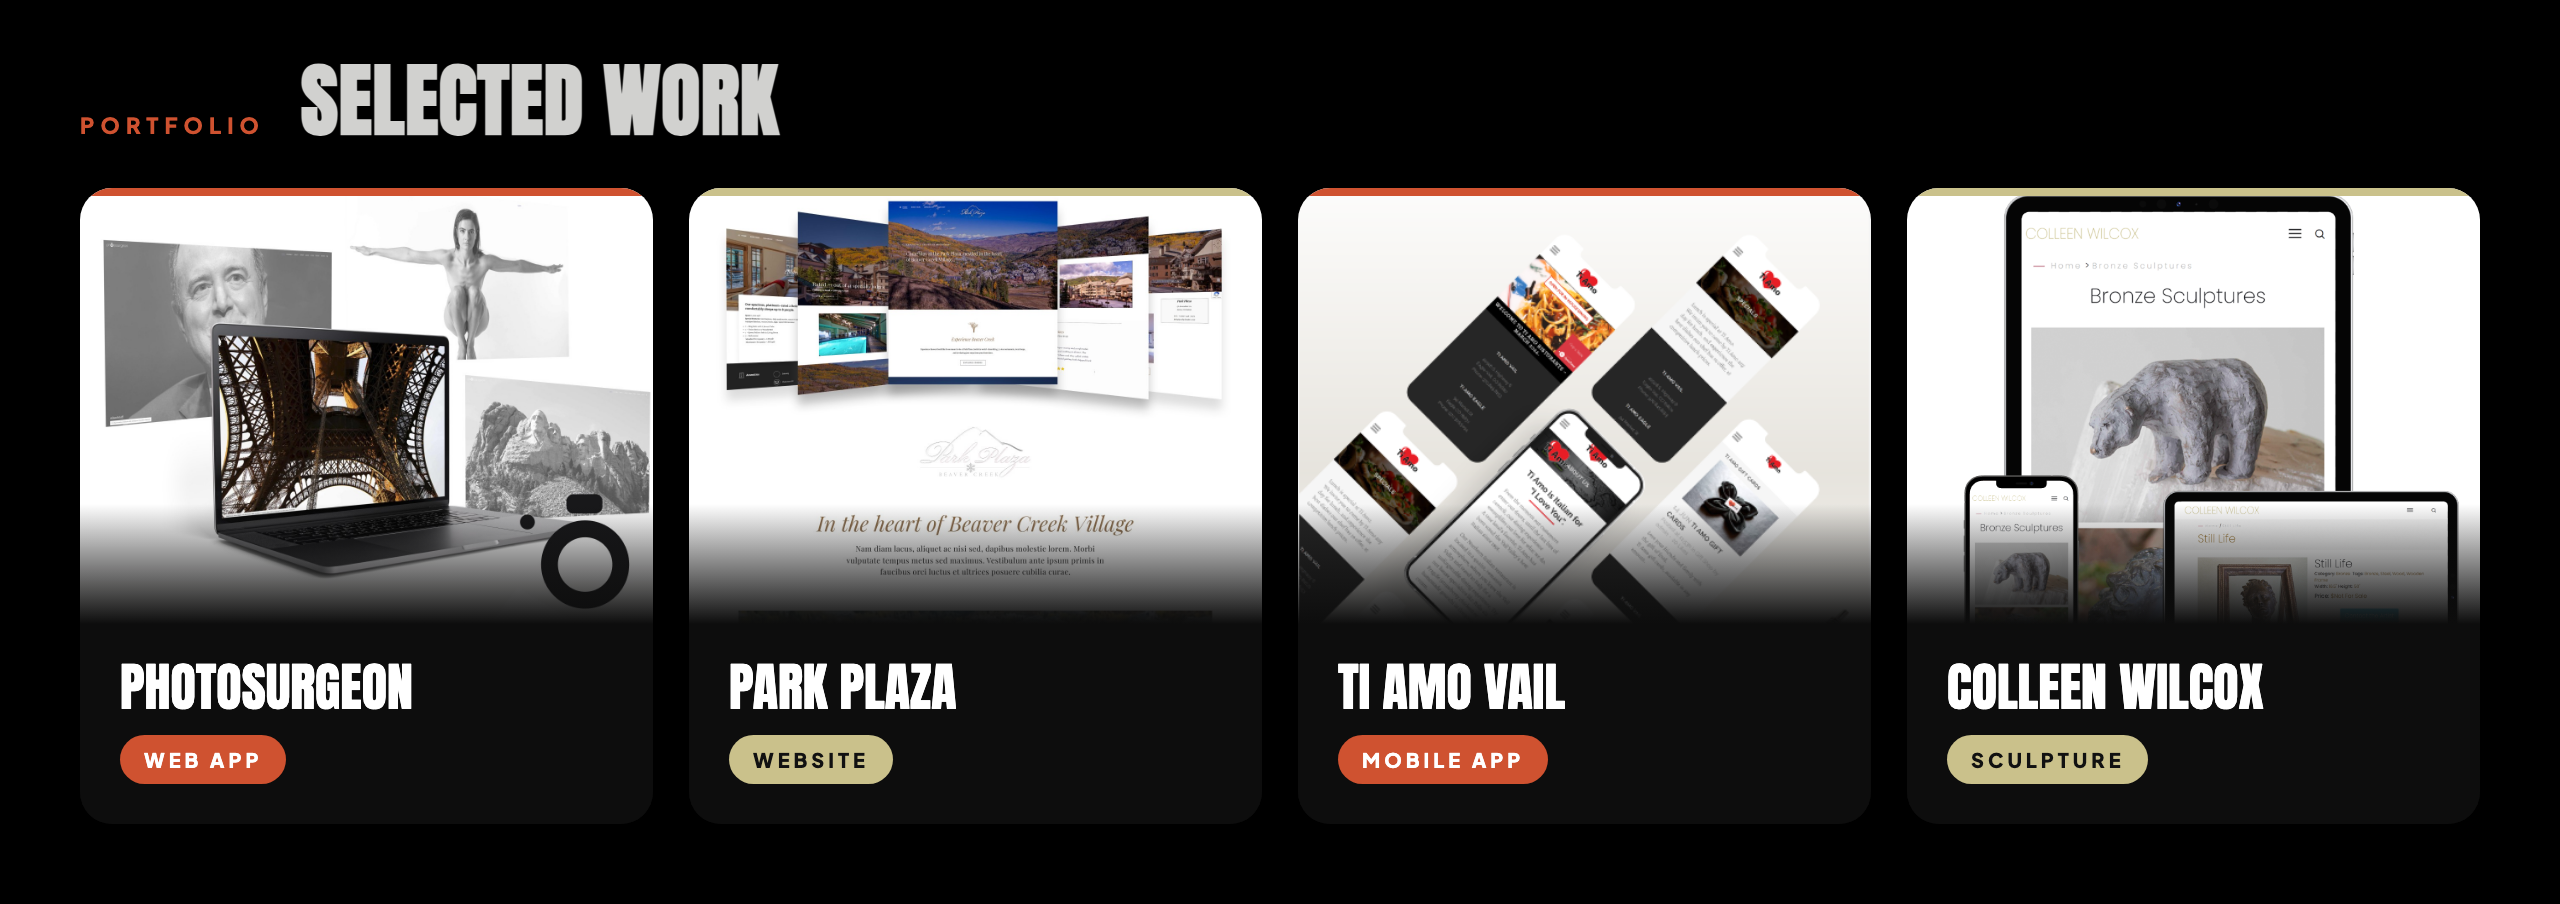
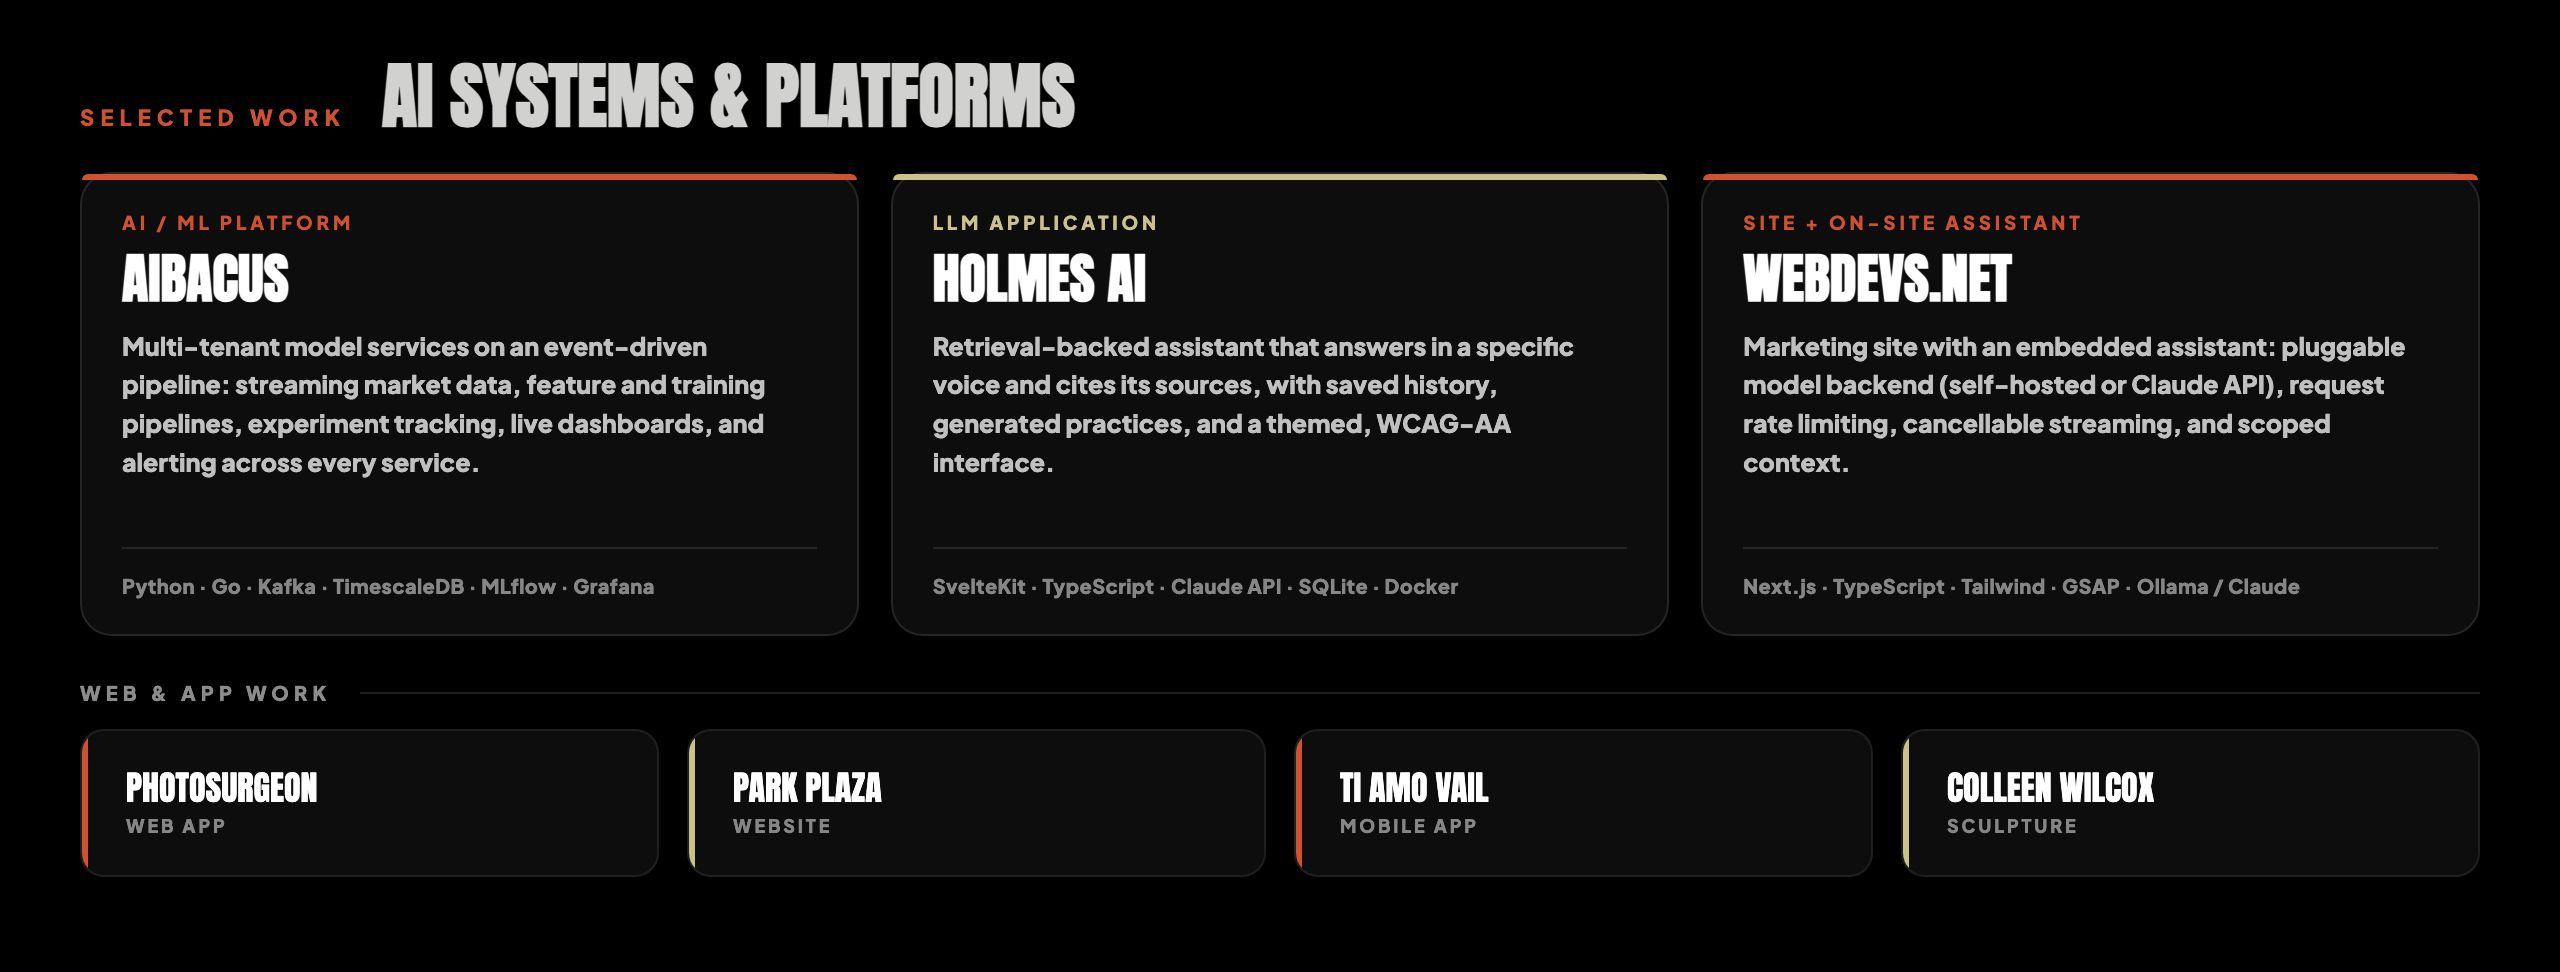
Lead selected work with AI systems
Replaces the client-screenshot grid with three AI systems (Aibacus platform
architecture, Holmes AI, the site's own assistant) and keeps the client web
and app work as a compact secondary row. No performance or returns claims.

diff --git a/assets-src/work.html b/assets-src/work.html
@@ -6,71 +6,104 @@
   @font-face { font-family: 'Anton'; src: url('fonts/Anton.ttf') format('truetype'); }
   @font-face { font-family: 'Jakarta'; src: url('fonts/Jakarta.ttf') format('truetype'); }
   * { margin: 0; padding: 0; box-sizing: border-box; }
-  html, body { width: 1280px; height: 452px; background: #000; }
+  html, body { width: 1280px; height: 500px; background: #000; }
 
-  .wrap { width: 1280px; height: 452px; background: #000; padding: 30px 40px 34px; }
+  .wrap { width: 1280px; height: 500px; background: #000; padding: 30px 40px 34px; }
 
-  .head { display: flex; align-items: baseline; gap: 18px; margin-bottom: 24px; }
-  .kicker {
-    font-family: 'Jakarta', sans-serif; font-weight: 800; font-size: 11px;
-    letter-spacing: 0.28em; text-transform: uppercase; color: #cf5230;
-  }
-  .head h2 {
-    font-family: 'Anton', sans-serif; font-size: 40px; text-transform: uppercase;
-    color: #d1d1cf; letter-spacing: 0.01em; line-height: 1;
-  }
+  .head { display: flex; align-items: baseline; gap: 18px; margin-bottom: 20px; }
+  .kicker { font-family: 'Jakarta', sans-serif; font-weight: 800; font-size: 11px;
+    letter-spacing: 0.28em; text-transform: uppercase; color: #cf5230; }
+  .head h2 { font-family: 'Anton', sans-serif; font-size: 36px; text-transform: uppercase;
+    color: #d1d1cf; line-height: 1; }
 
-  .grid { display: grid; grid-template-columns: repeat(4, 1fr); gap: 18px; }
-
-  .card { position: relative; border-radius: 16px; overflow: hidden; background: #0d0d0d; }
-  .card .shot { height: 218px; overflow: hidden; }
-  .card .shot img { width: 100%; height: 100%; object-fit: cover; object-position: top center; }
-  .card .fade {
-    position: absolute; left: 0; right: 0; top: 158px; height: 60px;
-    background: linear-gradient(180deg, rgba(13,13,13,0) 0%, rgba(13,13,13,1) 100%);
-  }
-  .card .meta { padding: 18px 20px 20px; background: #0d0d0d; }
-  .card .name {
-    font-family: 'Anton', sans-serif; font-size: 26px; text-transform: uppercase;
-    color: #fff; line-height: 1.05;
-  }
-  .card .type {
-    display: inline-block; margin-top: 10px;
+  /* AI systems row */
+  .ai { display: grid; grid-template-columns: repeat(3, 1fr); gap: 16px; }
+  .sys { position: relative; background: #0d0d0d; border: 1px solid rgba(255,255,255,0.10);
+    border-radius: 16px; padding: 18px 20px 16px; height: 232px; }
+  .sys .tick { position: absolute; left: 0; top: 0; width: 100%; height: 3px;
+    background: #cf5230; border-radius: 16px 16px 0 0; }
+  .sys:nth-child(2) .tick { background: #CAC18B; }
+  .sys .role { font-family: 'Jakarta', sans-serif; font-weight: 800; font-size: 9.5px;
+    letter-spacing: 0.2em; text-transform: uppercase; color: #cf5230; }
+  .sys:nth-child(2) .role { color: #CAC18B; }
+  .sys h3 { font-family: 'Anton', sans-serif; font-size: 27px; text-transform: uppercase;
+    color: #fff; margin: 8px 0 10px; line-height: 1.05; }
+  .sys p { font-family: 'Jakarta', sans-serif; font-size: 12.5px; line-height: 1.55;
+    color: rgba(255,255,255,0.74); }
+  .sys .stack { position: absolute; left: 20px; right: 20px; bottom: 18px;
     font-family: 'Jakarta', sans-serif; font-weight: 700; font-size: 10px;
-    letter-spacing: 0.2em; text-transform: uppercase; color: #fff;
-    background: #cf5230; border-radius: 999px; padding: 6px 12px;
-  }
-  .card .bar { position: absolute; left: 0; top: 0; width: 100%; height: 4px; background: #cf5230; }
-  .card:nth-child(2) .bar, .card:nth-child(4) .bar { background: #CAC18B; }
-  .card:nth-child(2) .type, .card:nth-child(4) .type { background: #CAC18B; color: #111; }
+    letter-spacing: 0.02em; color: rgba(255,255,255,0.5);
+    border-top: 1px solid rgba(255,255,255,0.10); padding-top: 12px; }
+
+  /* Client work row */
+  .sub { display: flex; align-items: center; gap: 14px; margin: 22px 0 12px; }
+  .sub span { font-family: 'Jakarta', sans-serif; font-weight: 800; font-size: 10px;
+    letter-spacing: 0.26em; text-transform: uppercase; color: rgba(255,255,255,0.55); }
+  .sub .line { flex: 1; height: 1px; background: rgba(255,255,255,0.12); }
+
+  .clients { display: grid; grid-template-columns: repeat(4, 1fr); gap: 14px; }
+  .card { position: relative; height: 74px; border-radius: 12px; overflow: hidden; background: #0d0d0d;
+    border: 1px solid rgba(255,255,255,0.08);
+    display: flex; flex-direction: column; justify-content: center; padding: 0 18px 0 22px; }
+  .card .name { font-family: 'Anton', sans-serif; font-size: 17px; text-transform: uppercase;
+    color: #fff; line-height: 1.1; }
+  .card .type { font-family: 'Jakarta', sans-serif; font-weight: 700; font-size: 9px;
+    letter-spacing: 0.16em; text-transform: uppercase; color: rgba(255,255,255,0.5);
+    margin-top: 4px; }
+  .card .edge { position: absolute; left: 0; top: 0; bottom: 0; width: 3px; background: #cf5230; }
+  .card:nth-child(even) .edge { background: #CAC18B; }
 </style>
 </head>
 <body>
   <div class="wrap">
     <div class="head">
-      <span class="kicker">Portfolio</span>
-      <h2>Selected Work</h2>
+      <span class="kicker">Selected work</span>
+      <h2>AI systems &amp; platforms</h2>
     </div>
-    <div class="grid">
-      <div class="card">
-        <div class="shot"><img src="works/photosurgeon.jpg" /></div>
-        <div class="fade"></div><div class="bar"></div>
-        <div class="meta"><div class="name">Photosurgeon</div><span class="type">Web App</span></div>
+
+    <div class="ai">
+      <div class="sys"><div class="tick"></div>
+        <div class="role">AI / ML platform</div>
+        <h3>Aibacus</h3>
+        <p>Multi-tenant model services on an event-driven pipeline: streaming market data,
+           feature and training pipelines, experiment tracking, live dashboards, and alerting
+           across every service.</p>
+        <div class="stack">Python · Go · Kafka · TimescaleDB · MLflow · Grafana</div>
       </div>
-      <div class="card">
-        <div class="shot"><img src="works/Park-Plaza.jpg" /></div>
-        <div class="fade"></div><div class="bar"></div>
-        <div class="meta"><div class="name">Park Plaza</div><span class="type">Website</span></div>
+      <div class="sys"><div class="tick"></div>
+        <div class="role">LLM application</div>
+        <h3>Holmes AI</h3>
+        <p>Retrieval-backed assistant that answers in a specific voice and cites its sources,
+           with saved history, generated practices, and a themed, WCAG-AA interface.</p>
+        <div class="stack">SvelteKit · TypeScript · Claude API · SQLite · Docker</div>
       </div>
-      <div class="card">
-        <div class="shot"><img src="works/TiAmoVali.png" /></div>
-        <div class="fade"></div><div class="bar"></div>
-        <div class="meta"><div class="name">Ti Amo Vail</div><span class="type">Mobile App</span></div>
+      <div class="sys"><div class="tick"></div>
+        <div class="role">Site + on-site assistant</div>
+        <h3>webdevs.net</h3>
+        <p>Marketing site with an embedded assistant: pluggable model backend (self-hosted or
+           Claude API), request rate limiting, cancellable streaming, and scoped context.</p>
+        <div class="stack">Next.js · TypeScript · Tailwind · GSAP · Ollama / Claude</div>
       </div>
-      <div class="card">
-        <div class="shot"><img src="works/colleenwilcox.png" /></div>
-        <div class="fade"></div><div class="bar"></div>
-        <div class="meta"><div class="name">Colleen Wilcox</div><span class="type">Sculpture</span></div>
+    </div>
+
+    <div class="sub"><span>Web &amp; app work</span><div class="line"></div></div>
+
+    <div class="clients">
+      <div class="card"><div class="edge"></div>
+        <div class="name">Photosurgeon</div>
+        <div class="type">Web app</div>
+      </div>
+      <div class="card"><div class="edge"></div>
+        <div class="name">Park Plaza</div>
+        <div class="type">Website</div>
+      </div>
+      <div class="card"><div class="edge"></div>
+        <div class="name">Ti Amo Vail</div>
+        <div class="type">Mobile app</div>
+      </div>
+      <div class="card"><div class="edge"></div>
+        <div class="name">Colleen Wilcox</div>
+        <div class="type">Sculpture</div>
       </div>
     </div>
   </div>

diff --git a/profile/README.md b/profile/README.md
@@ -118,11 +118,12 @@ Security is part of the build, not a pass at the end.
 
 ---
 
-## Selected client work
+## Selected work
 
-<img src="./assets/work.png" alt="Selected work: Photosurgeon, Park Plaza, Ti Amo Vail, Colleen Wilcox" width="100%" />
+<img src="./assets/work.png" alt="Selected work: Aibacus AI and ML platform, Holmes AI, webdevs.net site assistant, plus web and app work" width="100%" />
 
-Case studies, stacks, and screenshots: [webdevs.net/portfolio](https://webdevs.net/portfolio)
+Aibacus and Holmes AI are platforms we build and operate; the web and app work is client delivery.
+Case studies and screenshots: [webdevs.net/portfolio](https://webdevs.net/portfolio)
 
 ---
 
